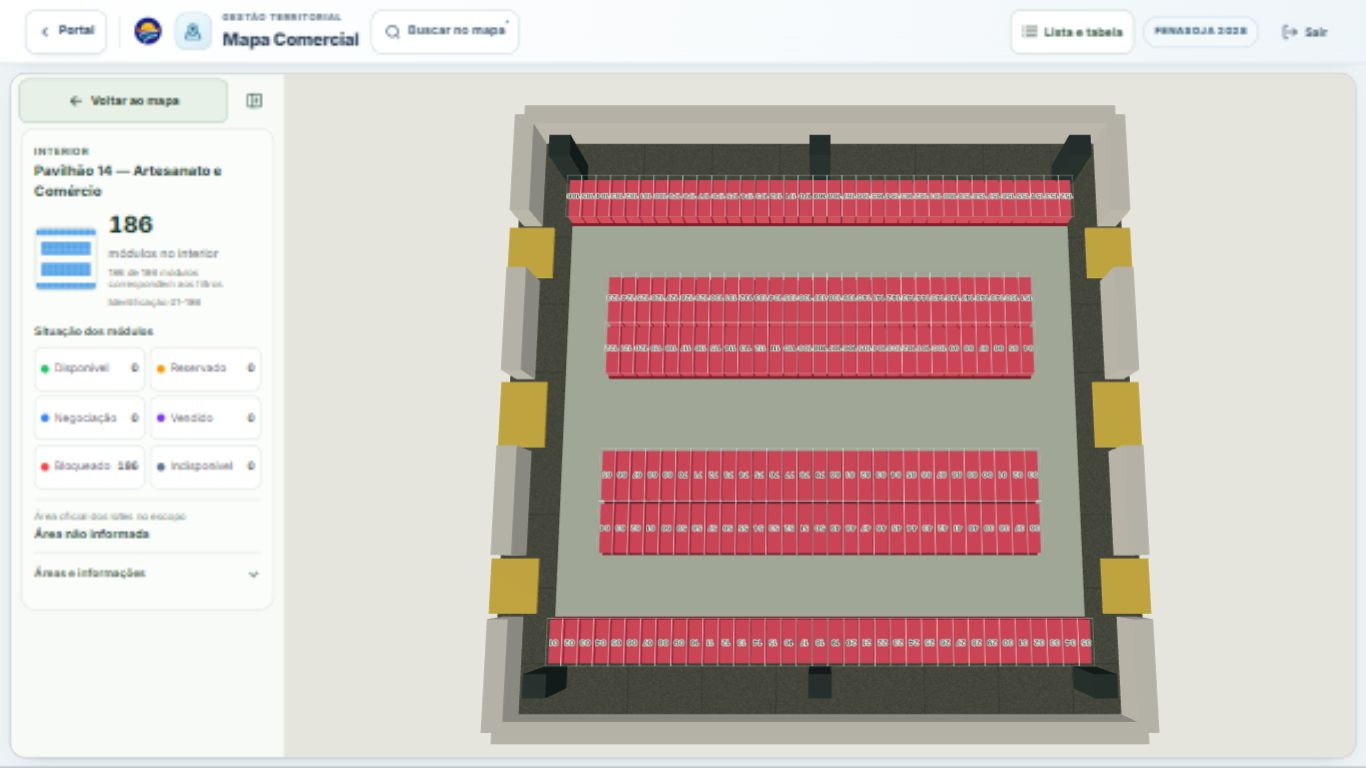
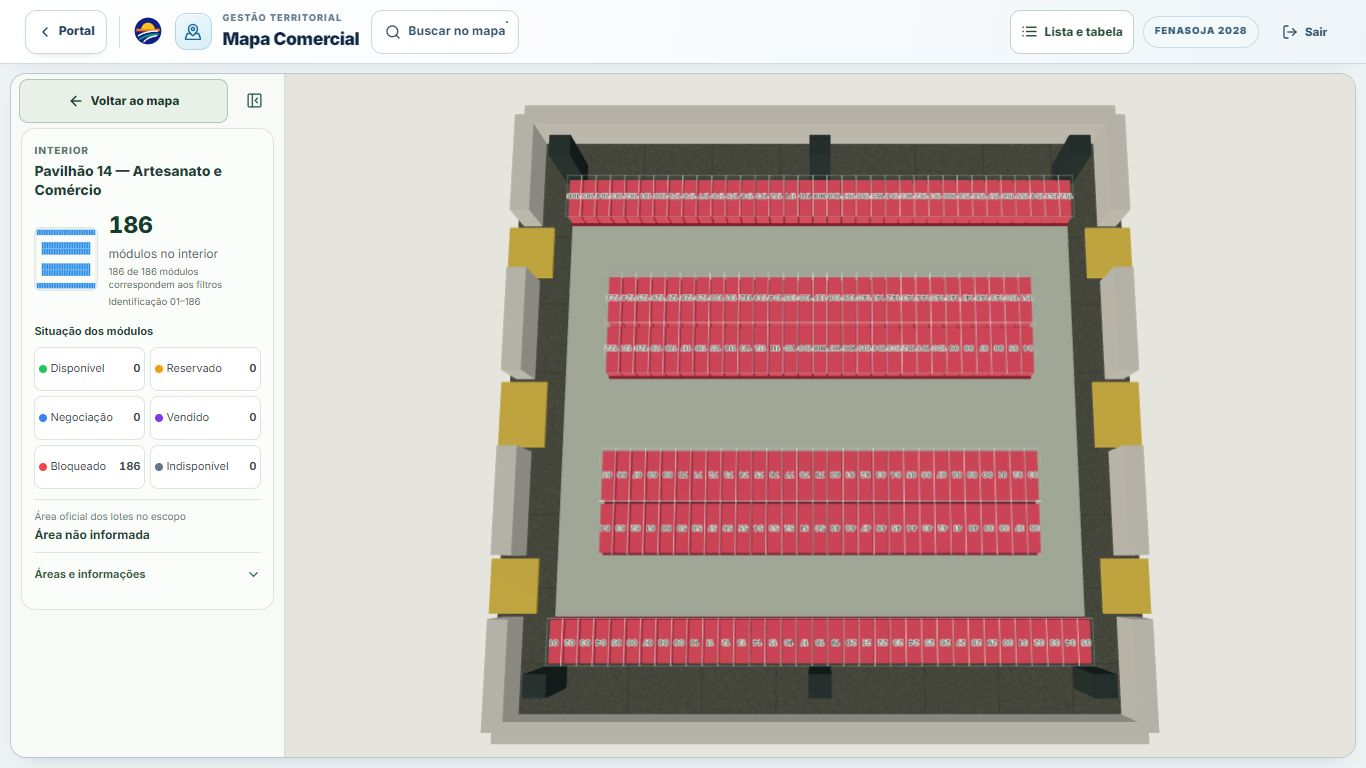
docs(commercial-map): record contextual navigation validation

diff --git a/src/features/commercial-map/components/panels/contextual-map-legend.css b/src/features/commercial-map/components/panels/contextual-map-legend.css
@@ -22,8 +22,8 @@
 .commercial-context-status-heading button { display: flex; min-height: 44px; align-items: center; gap: 5px; padding: 5px; color: #1b5740; text-decoration: underline; text-underline-offset: 3px; }
 .commercial-context-status-heading svg { width: 15px; height: 15px; }
 .commercial-context-statuses { display: grid; grid-template-columns: repeat(2, minmax(0, 1fr)); gap: 5px; }
-.commercial-context-statuses button { display: flex; min-width: 0; min-height: 44px; align-items: center; gap: 5px; border: 1px solid #dce5df; border-radius: 8px; padding: 6px; text-align: left; background: #fff; color: #31473d; font-size: 11px; transition: transform 180ms ease, opacity 180ms ease; }
-.commercial-context-statuses button > span { flex: 1; line-height: 1.2; overflow-wrap: anywhere; }
+.commercial-context-statuses button { display: flex; min-width: 0; min-height: 44px; align-items: center; gap: 3px; border: 1px solid #dce5df; border-radius: 8px; padding: 6px 4px; text-align: left; background: #fff; color: #31473d; font-size: 11px; transition: transform 180ms ease, opacity 180ms ease; }
+.commercial-context-statuses button > span { flex: 1; line-height: 1.2; overflow-wrap: normal; }
 .commercial-context-statuses button > i, .commercial-context-neutral > i { width: 8px; height: 8px; flex: 0 0 8px; border-radius: 50%; background: var(--status-color, #7a817b); }
 .commercial-context-statuses button > strong { font-size: 11px; font-variant-numeric: tabular-nums; }
 .commercial-context-statuses button.is-selected { border-color: var(--status-border); background: var(--status-surface); box-shadow: inset 0 0 0 1px var(--status-border); color: #20342a; }

diff --git a/docs/commercial-map-contextual-panel.md b/docs/commercial-map-contextual-panel.md
@@ -1,6 +1,6 @@
 # Painel contextual do Mapa Comercial
 
-Implementação na branch `codex/contextual-commercial-map-panel`, a partir de `5543034845dfe967cf79e440e68c2d726bfa9233`.
+Implementação na branch `codex/contextual-commercial-map-panel`, a partir de `5543034845dfe967cf79e440e68c2d726bfa9233`, integrada à `main` atual `ad561b56` (bairro lateral, PR #129), sem conflitos.
 
 ## Comportamento entregue
 
@@ -33,11 +33,17 @@ Não foram alterados cadastros, geometrias oficiais, modelos 3D, contratos, regr
 
 TypeScript (`tsc -p tsconfig.app.json --noEmit`), ESLint dos arquivos alterados e build de produção passaram. O build mantém avisos existentes sobre chunks grandes e a base Browserslist desatualizada.
 
+Suíte ampla após integrar a `main`: **976 testes em 123 arquivos; 971 aprovados e 5 falhas preexistentes**, sem falhas novas. Comando: `npm test -- commercialMap --maxWorkers=2`. Os relatórios brutos locais ficam em `artifacts/contextual-panel`; o resumo revisável está em [validation.json](screenshots/contextual-panel/validation.json).
+
 Testes de integração cobrem seleção imediata, limpeza independente, permissões/ordem do cabeçalho, prioridade contextual, retorno, lista, formulários ao trocar módulo e paginação. Testes de projeção cobrem exteriores/interiores em 360/390/430 px, com painéis de 25% e 78%, após os limites reais de OrbitControls.
 
 Cinco falhas foram reproduzidas em checkout isolado do commit original (46 testes: 41 passaram, 5 falharam): folga de infraestrutura elétrica, referências locais ausentes da Churrascaria Exporural, duas expectativas de histerese em Presentation e comparação textual LF/CRLF em QuadrasABLactalis. Elas não foram corrigidas alterando dados espaciais nesta tarefa.
 
 As capturas “antes” são os anexos fornecidos pelo usuário. As capturas “depois” usam a mesma interface real na rota exclusivamente DEV `/__dev/commercial-map-interface`, com referência oficial e permissões de leitura. Gestão não aparece nessas capturas por essas permissões; sua apresentação com autorização é validada nos testes de integração.
+
+Verificação visual: desktop 1366×768, mobile 360×800, 390×844 e 430×932, e paisagem 844×390, sem overflow horizontal nos estados inspecionados. O resumo do interior mediu 200, 211 e 233 px respectivamente (25% da altura do viewport). A seleção inicial de estrutura mediu 144 px em 390×844, preservando mais espaço conforme o conteúdo. Voltar ao mapa, lista e controles do painel mediram ao menos 44 px de altura; o botão compacto Lista e tabela mediu 44×44 px. Foram exercitados segmento → situação → limpar segmento, seleção do Pavilhão 14, módulo 73, expansão/recolhimento, lista/mapa e retorno por Esc. Os filtros em paisagem têm rolagem própria, fechamento fixo e ocultam o Dock durante o uso.
+
+Após aquecimento e integração da `main`, **24 trocas de segmento** terminaram com seleção, legenda e câmera em Espaço do Automóvel. Recursos antes/depois: **559 geometrias, 149 texturas, 187 programas**, sem crescimento. Saúde final `ready/post`, 724 quadros apresentados, zero perdas de contexto e nenhum código de erro. Esses números não constituem medição de FPS; detalhes em [stress-segments.json](screenshots/contextual-panel/stress-segments.json). Uma rodada anterior em 430×932 também manteve estáveis 543/149/183 recursos durante 24 trocas, antes da integração do bairro lateral.
 
 ### Capturas
 
@@ -48,5 +54,6 @@ As capturas “antes” são os anexos fornecidos pelo usuário. As capturas “
 | Segmentos desktop | — | [Depois](screenshots/contextual-panel/after-desktop-segments.png) |
 | Interior mobile | — | [360 px](screenshots/contextual-panel/after-mobile-interior-360.png), [390 px](screenshots/contextual-panel/after-mobile-interior-390.png), [430 px](screenshots/contextual-panel/after-mobile-interior-430.png) |
 | Detalhes voluntários | — | [Módulo expandido](screenshots/contextual-panel/after-mobile-module-expanded-390.png) |
+| Filtros em paisagem | — | [844×390](screenshots/contextual-panel/after-landscape-filters.png) |
 
 Validação em navegador desktop com viewports CSS, sem certificação de iPhone/Safari, hardware mobile, multitouch físico ou FPS. Fluxos comerciais de gravação não foram executados contra produção.
